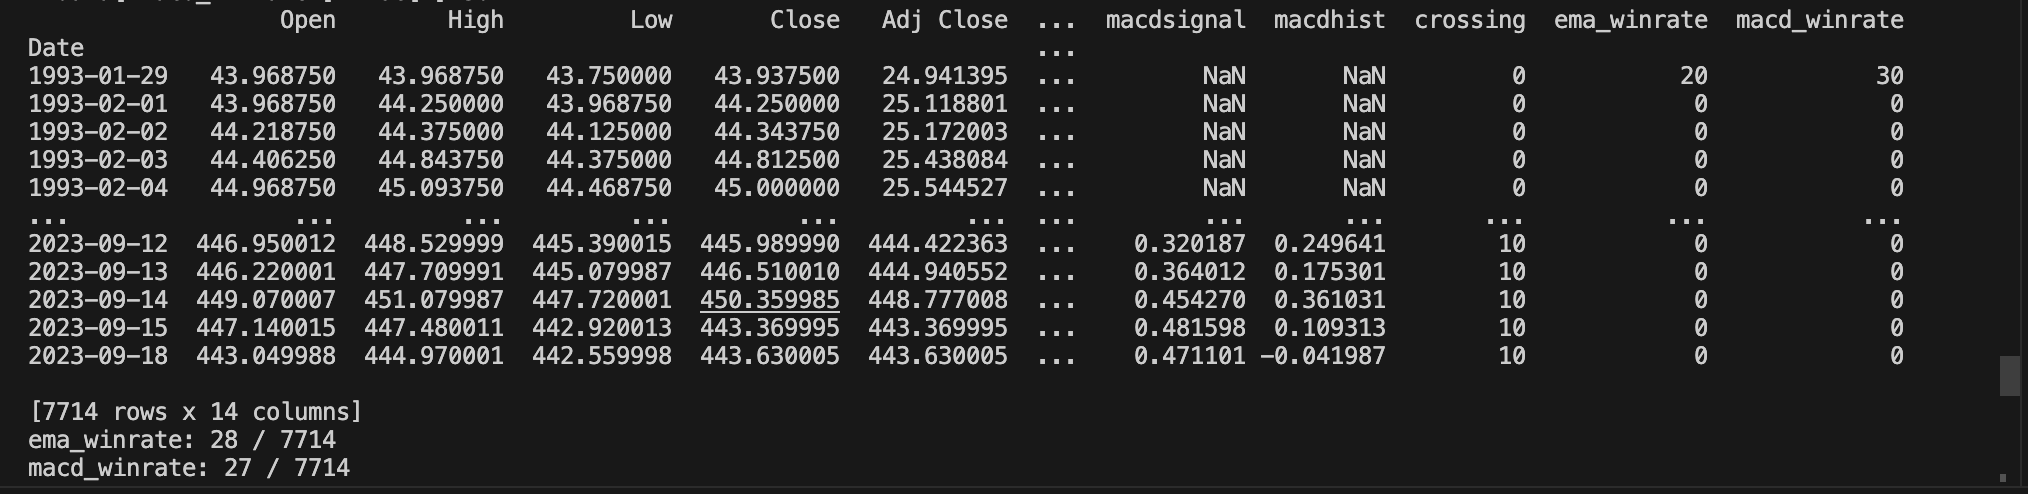
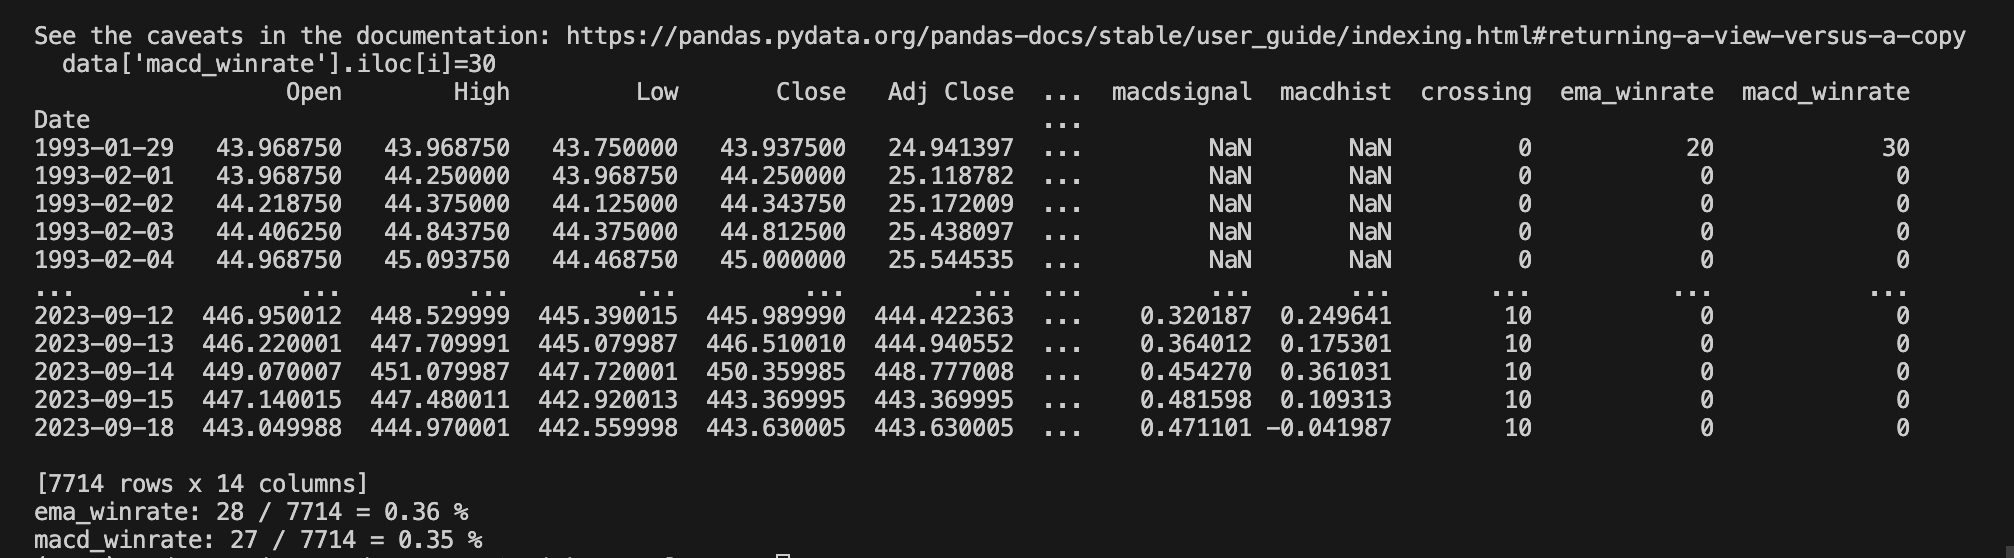
update winrate calc

diff --git a/ticker_analyer.py b/ticker_analyer.py
@@ -59,8 +59,8 @@ for i in range(len(data)):
              
 
 print(data)
-print('ema_winrate:',ema_winrate ,'/',len(data))
-print('macd_winrate:',macd_winrate ,'/',len(data))
+print('ema_winrate:',ema_winrate ,'/',len(data),'=',round(((ema_winrate/len(data))*100),2),'%')
+print('macd_winrate:',macd_winrate ,'/',len(data),'=',round(((macd_winrate/len(data))*100),2),'%')
 
 figure, axis = plt.subplots(2)
 
